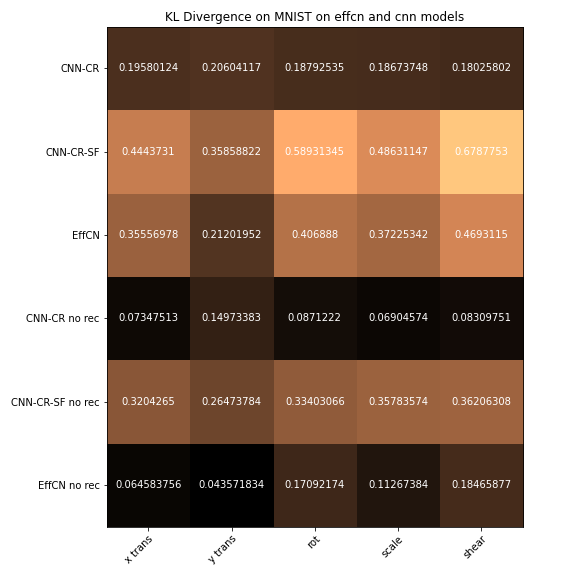
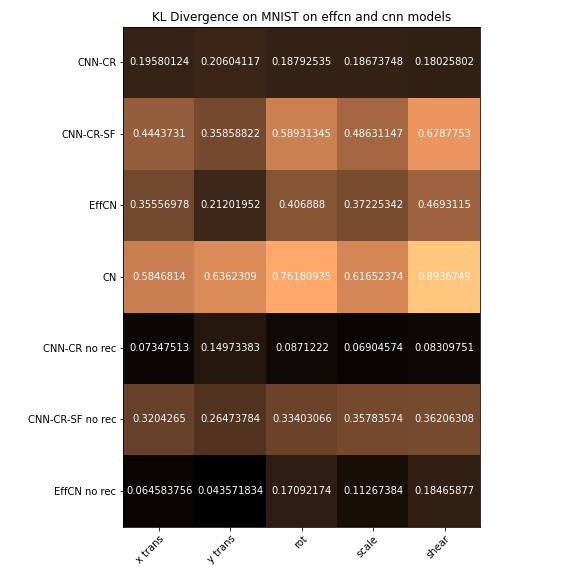
sem comp on cn mnist

diff --git a/misc/semantic_compactness.py b/misc/semantic_compactness.py
@@ -1,4 +1,5 @@
 import sys
+#sys.path.append("./../..")
 sys.path.append("./../")
 sys.path.append(".")
 
@@ -8,6 +9,7 @@ import pickle
 import pprint
 import time
 import datetime
+import argparse
 #
 import torch
 import torchvision
@@ -23,7 +25,7 @@ from dotted_dict import DottedDict
 #
 from misc.plot_utils import plot_mat, imshow
 from effcn.functions import max_norm_masking
-from effcn.models import MnistEffCapsNet, MnistCNN_CR_SF, MnistCNN_CR, MnistCNN_R
+from effcn.models_mnist import EffCapsNet, CNN_CR_SF, CNN_CR, CNN_R, CapsNet
 from misc.utils import mkdir_directories
 
 def affine_xtrans(img, target, range=[-5.,5.,1]):
@@ -120,16 +122,20 @@ def sem_comp(conf):
     pickle.dump(conf, file1)
     file1.close()
 
+    #device 
+    device = config.device
+
     #Model to device
-    device = torch.device("cuda")
-    if config.model == 'MnistEffCapsNet':
-        model = MnistEffCapsNet()
-    elif config.model == 'MnistCNN_CR_SF':
-        model = MnistCNN_CR_SF()
-    elif config.model == 'MnistCNN_CR':
-        model = MnistCNN_CR()
-    elif config.model == 'MnistCNN_R':
-        model = MnistCNN_R()
+    if config.model == 'EffCapsNet':
+        model = EffCapsNet()
+    elif config.model == 'CapsNet':
+        model = CapsNet()
+    elif config.model == 'CNN_CR_SF':
+        model = CNN_CR_SF()
+    elif config.model == 'CNN_CR':
+        model = CNN_CR()
+    elif config.model == 'CNN_R':
+        model = CNN_R()
     else:
         print('Indicated model {} isnt avalible'.format(config.model))
         exit()
@@ -250,22 +256,38 @@ def sem_comp(conf):
 
 
 if __name__ == "__main__":
-    #model = 'MnistCNN_CR' #MnistEffCapsNet MnistCNN_CR_SF MnistCNN_CR MnistCNN_R
-    #model = 'MnistCNN_CR_SF' #MnistEffCapsNet MnistCNN_CR_SF MnistCNN_CR MnistCNN_R
-    model = 'MnistCNN_R' #MnistEffCapsNet MnistCNN_CR_SF MnistCNN_CR MnistCNN_R
-    #model = 'MnistEffCapsNet' #MnistEffCapsNet MnistCNN_CR_SF MnistCNN_CR MnistCNN_R
+    parser = argparse.ArgumentParser(
+        description='Run Semantic Compactness on EffCapsNet, CapsNet, CNN_CR_SF, CNN_CR or CNN_R on MNIST')
+    parser.add_argument('-m','--model', type=str, default='CapsNet', metavar='',
+                        required=False, help='Possible Models: EffCapsNet,  CapsNet, CNN_CR_SF, CNN_CR, CNN_R')
+    parser.add_argument('-d','--device', type=str, default='cuda',
+                        metavar='', required=False, help='device')
+    parser.add_argument('-pe','--p_experiment', type=str, default='/mnt/data/experiments/EfficientCN/mnist/mnist_CapsNet_2022_03_06_23_45_54',
+                        metavar='', required=False, help='path of experiment')
+    parser.add_argument('-pm','--p_model', type=str, default='model_150.ckpt',
+                        metavar='', required=False, help='path of model')
+    parser.add_argument('-ps','--p_semcomp', type=str, default='/mnt/data/experiments/EfficientCN/sem_comp',
+                        metavar='', required=False, help='path for semantic compactness')
+    args = parser.parse_args()
+
+
+    #"p_experiment": "/mnt/data/experiments/EfficientCN/mnist/effcn_mnist_MnistCNN_CR_2022_02_06_17_49_47",
+    #"p_experiment": "/mnt/data/experiments/EfficientCN/mnist/effcn_mnist_MnistCNN_CR_SF_2022_02_06_17_49_16",
+    #"p_experiment": "/mnt/data/experiments/EfficientCN/mnist/effcn_mnist_MnistCNN_R_2022_02_06_17_51_14",
+    #"p_experiment": "/mnt/data/experiments/EfficientCN/mnist/effcn_mnist_MnistEffCapsNet_2022_02_06_17_48_52",
+    #"p_experiment": "/mnt/data/experiments/EfficientCN/mnist/mnist_CapsNet_2022_03_06_23_45_54",
+
+
     config = {
-        'model': model, #MnistEffCapsNet, MnistCNN_CR_SF, MnistCNN_CR, MnistCNN_R,
+        'model':args.model,
+        'device': args.device,
         "path" : {
-            #"p_experiment": "/mnt/data/experiments/EfficientCN/mnist/effcn_mnist_MnistCNN_CR_2022_02_06_17_49_47",
-            #"p_experiment": "/mnt/data/experiments/EfficientCN/mnist/effcn_mnist_MnistCNN_CR_SF_2022_02_06_17_49_16",
-            "p_experiment": "/mnt/data/experiments/EfficientCN/mnist/effcn_mnist_MnistCNN_R_2022_02_06_17_51_14",
-            #"p_experiment": "/mnt/data/experiments/EfficientCN/mnist/effcn_mnist_MnistEffCapsNet_2022_02_06_17_48_52",
+            "p_experiment": args.p_experiment,
             "p_ckpts": "ckpts",
-            "p_model": "model_150.ckpt",
+            "p_model": args.p_model,
             "p_data" : "/mnt/data/datasets",
-            "p_semcomp" : "/mnt/data/experiments/EfficientCN/sem_comp",
-            "p_stats" : 'semcomp_mnist_{mo}_{da}'.format(mo=model, da=datetime.datetime.fromtimestamp(time.time()).strftime('%Y_%m_%d_%H_%M_%S'))
+            "p_semcomp" : args.p_semcomp,
+            "p_stats" : 'semcomp_mnist_{mo}_{da}'.format(mo=args.model, da=datetime.datetime.fromtimestamp(time.time()).strftime('%Y_%m_%d_%H_%M_%S'))
         },
         "ds" : {
             "train" : True,

diff --git a/effcn/models_multimnist.py b/effcn/models_multimnist.py
@@ -222,7 +222,9 @@ class CapsNet(nn.Module):
         
         self.backbone = nn.Sequential(
                         nn.Conv2d(1, 256, kernel_size=9, stride=1),
-                        nn.Conv2d(256, 256, kernel_size=9, stride=1)
+                        nn.ReLU(inplace=True),
+                        nn.Conv2d(256, 256, kernel_size=9, stride=1),
+                        nn.ReLU(inplace=True),
         )
         self.primcaps = PrimaryCapsLayer(c_in=256,c_out=32,d_l=self.d_l, kernel_size=9, stride=2)
         self.digitcaps = CapsLayer(self.n_l, self.d_l, self.n_h, self. d_h, self.n_iter) 

diff --git a/effcn/models_smallnorb.py b/effcn/models_smallnorb.py
@@ -129,7 +129,9 @@ class CapsNet(nn.Module):
         
         self.backbone = nn.Sequential(
                         nn.Conv2d(2, 256, kernel_size=9, stride=1),
-                        nn.Conv2d(256, 256, kernel_size=9, stride=1)
+                        nn.ReLU(inplace=True),
+                        nn.Conv2d(256, 256, kernel_size=9, stride=1),
+                        nn.ReLU(inplace=True),
         )
         self.primcaps = PrimaryCapsLayer(c_in=256,c_out=32,d_l=self.d_l, kernel_size=9, stride=2)
         self.digitcaps = CapsLayer(self.n_l, self.d_l, self.n_h, self. d_h, self.n_iter) 

diff --git a/effcn/models_mnist.py b/effcn/models_mnist.py
@@ -164,7 +164,10 @@ class CapsNet(nn.Module):
         self.d_h = 16           # dim of output capsules
         self.n_iter = 3
 
-        self.backbone = nn.Conv2d(1, 256, kernel_size=9, stride=1)
+        self.backbone = nn.Sequential(
+                        nn.Conv2d(1, 256, kernel_size=9, stride=1),
+                        nn.ReLU(inplace=True),
+        )
         self.primcaps = PrimaryCapsLayer(c_in=256,c_out=32,d_l=self.d_l, kernel_size=9, stride=2)
         self.digitcaps = CapsLayer(self.n_l, self.d_l, self.n_h, self. d_h, self.n_iter)
         self.decoder = Decoder()
